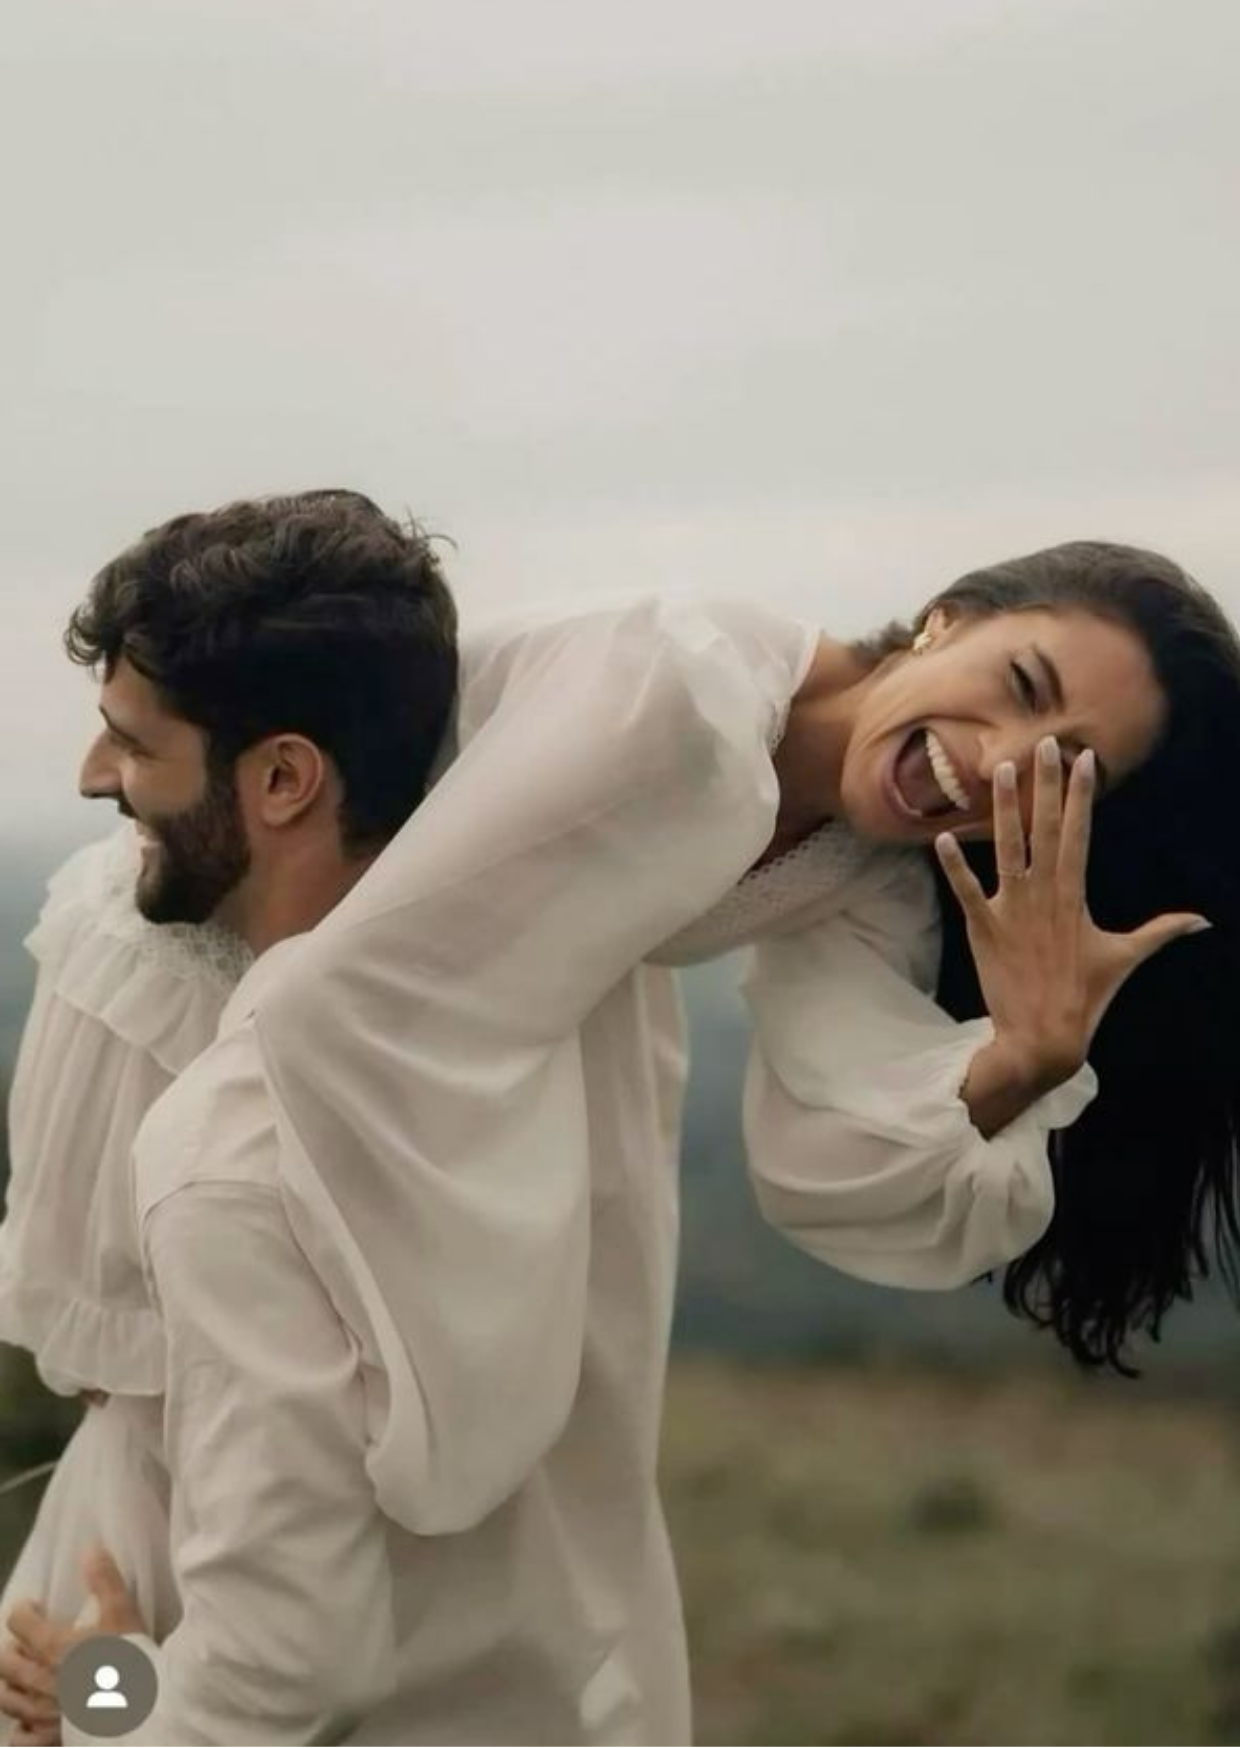
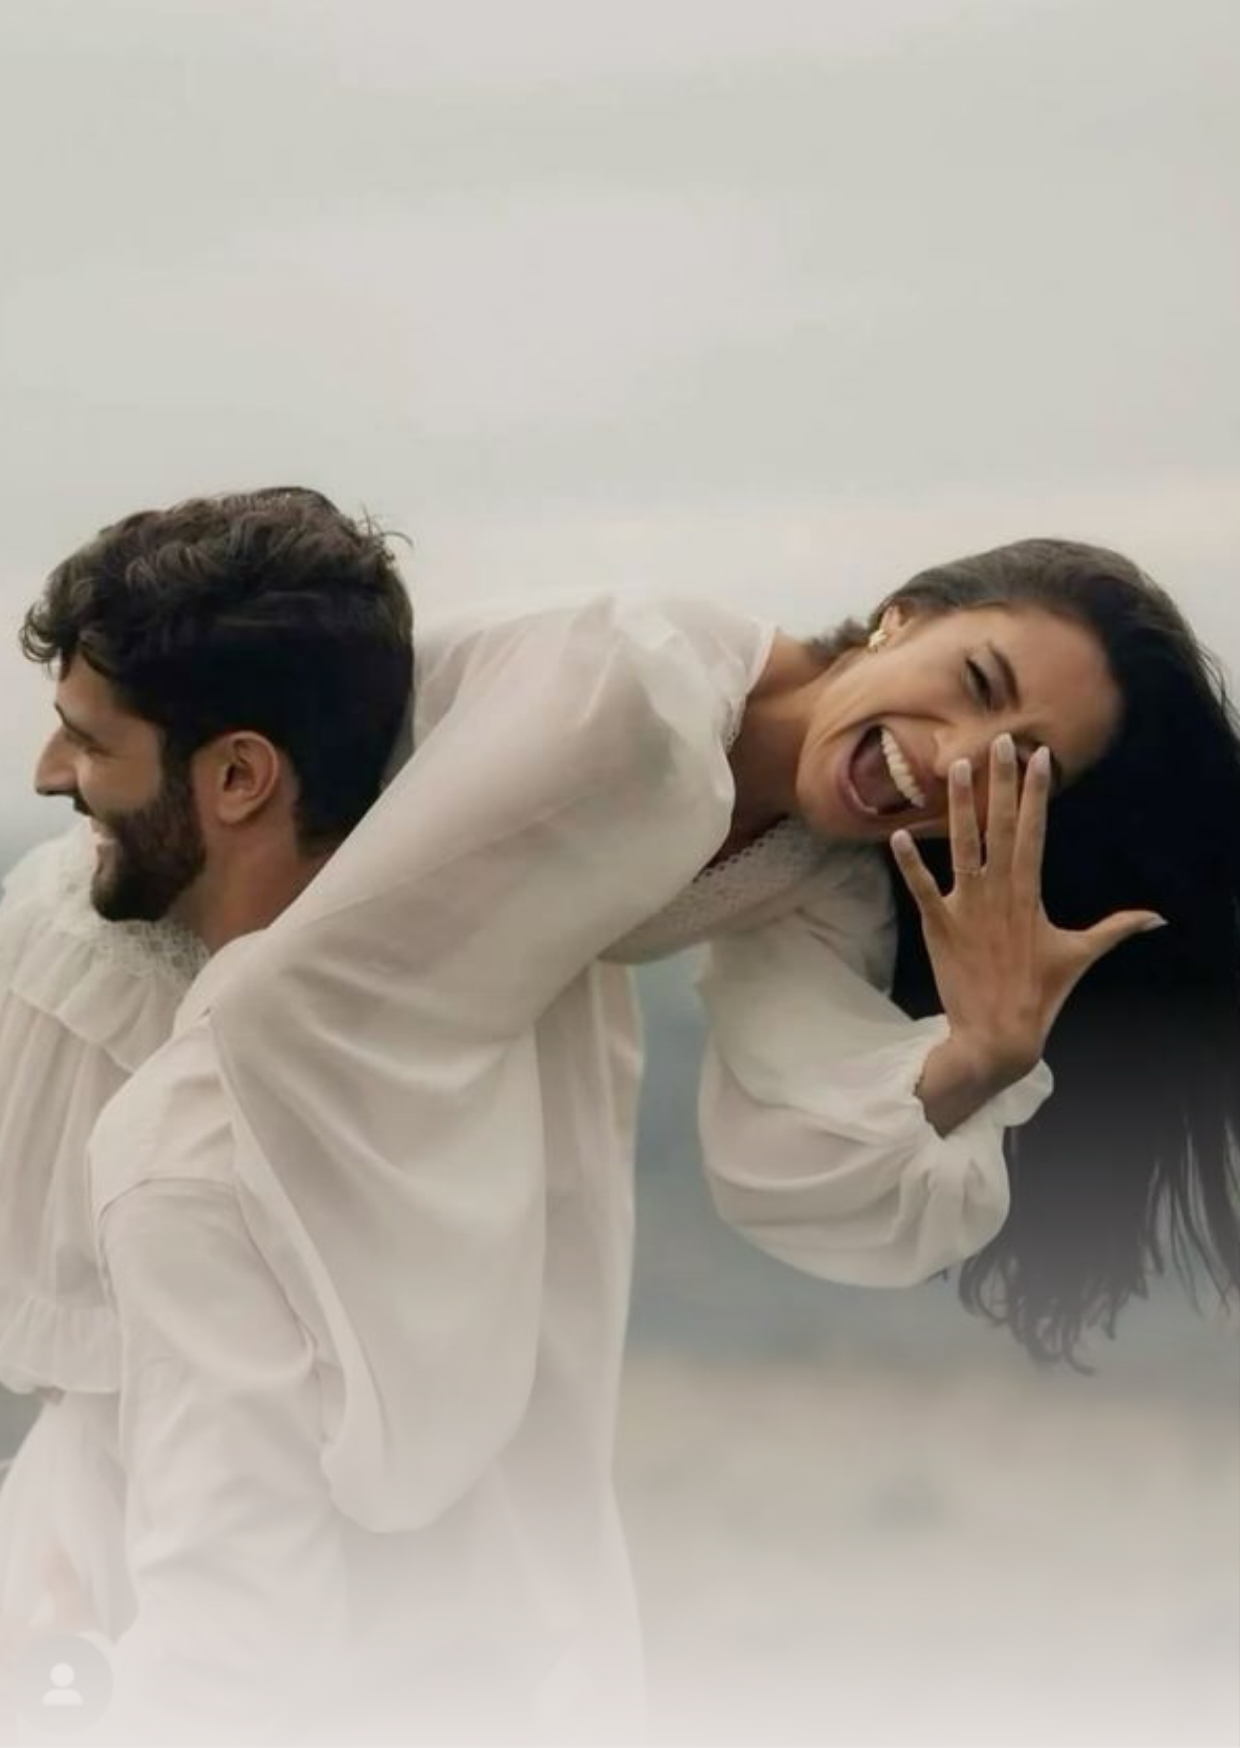
updated profile pic

diff --git a/src/index.css b/src/index.css
@@ -90,60 +90,17 @@ select {
 .profile-photo-inner {
   position: relative;
   overflow: hidden;
+  aspect-ratio: 0.9;
   background: #d9d2ce;
 }
 
-.profile-photo-inner::after {
-  position: absolute;
-  right: 0;
-  bottom: 0;
-  left: 0;
-  z-index: 3;
-  height: 100%;
-  background:
-    linear-gradient(
-      to right,
-      var(--invitation-bg),
-      rgba(232, 226, 224, 0) 10px
-    ),
-    linear-gradient(to left, var(--invitation-bg), rgba(232, 226, 224, 0) 10px),
-    linear-gradient(
-      to bottom,
-      rgba(232, 226, 224, 0) calc(100% - 10px),
-      var(--invitation-bg)
-    );
-  content: "";
-  pointer-events: none;
-}
-
 .profile-photo {
-  width: 100%;
-  aspect-ratio: 0.9;
+  width: calc(100% + 18px);
+  height: calc(100% + 8px);
+  max-width: none;
   object-fit: cover;
   object-position: 50% 50%;
-}
-
-.profile-photo-fade {
-  position: absolute;
-  right: 0;
-  bottom: 0;
-  left: 0;
-  z-index: 2;
-  height: 36%;
-  overflow: hidden;
-  pointer-events: none;
-}
-
-.profile-photo-fade::before {
-  position: absolute;
-  top: -57.09%;
-  left: -8.97%;
-  width: 118.32%;
-  height: 223.24%;
-  background-image: url("/fade.png");
-  background-repeat: no-repeat;
-  background-size: 100% 100%;
-  content: "";
+  transform: translateX(-9px);
 }
 
 .profile-copy {

diff --git a/src/sections/ProfilePictureSection.jsx b/src/sections/ProfilePictureSection.jsx
@@ -9,7 +9,6 @@ function ProfilePictureSection() {
               src="/profilepic.png"
               alt="Nina and Milan"
             />
-            <span className="profile-photo-fade" aria-hidden="true" />
           </div>
         </div>
 